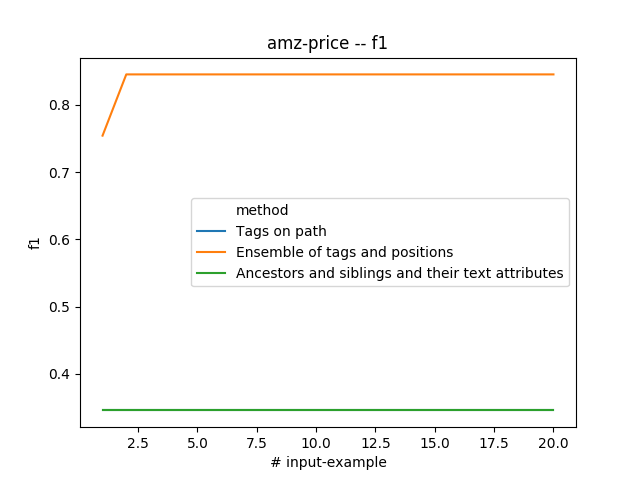
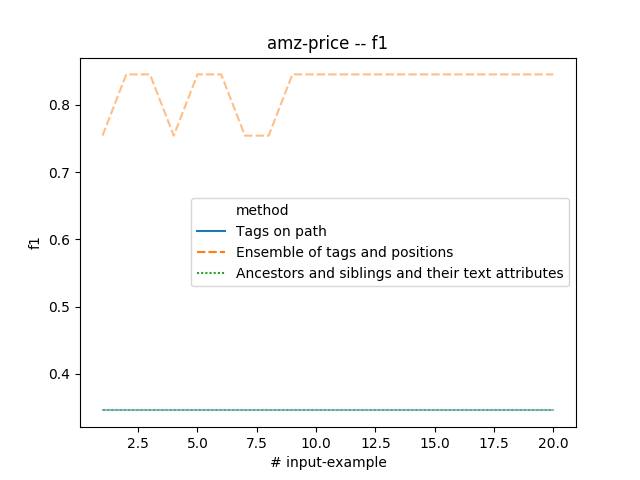
added

diff --git a/matcher/draw.py b/matcher/draw.py
@@ -18,7 +18,7 @@ with open(args.input, 'r') as f:
     df = read_csv(f)
 
 for mt in ['prec', 'recal', 'f1']:
-    lineplot(x='train-size', y=mt, hue='method', data=df)
+    lineplot(x='train-size', y=mt, hue='method', data=df, alpha=0.5, style='method')
     plt.xlabel("# input-example")
     plt.ylabel(mt)
     plt.title("%s -- %s" % (args.gt, mt))
